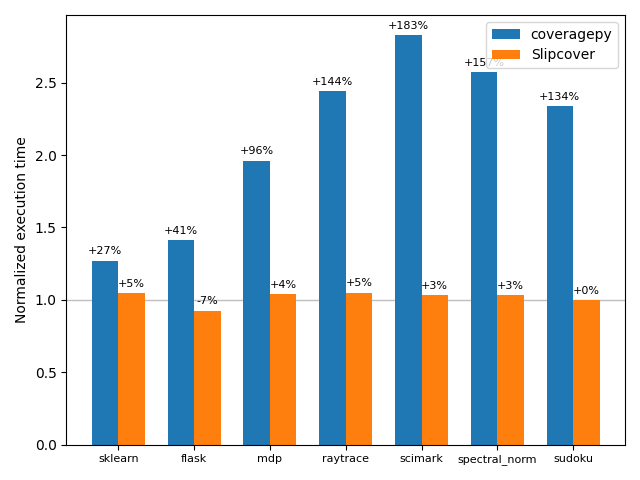
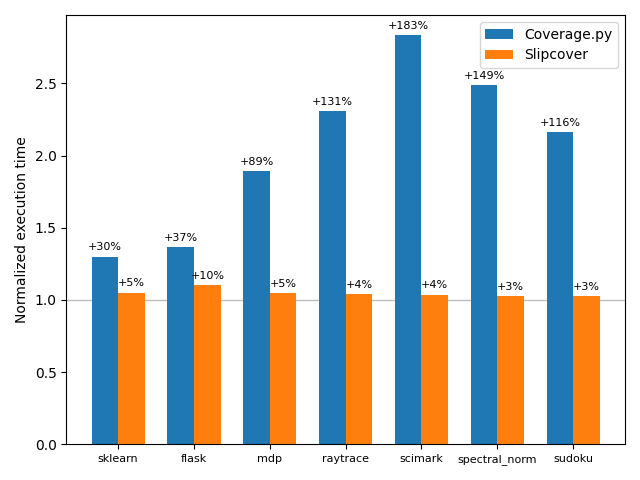
- updated benchmarks;
- started integrating astropy benchmarks, but left disabled as it
  disabled as it needs to be verified;

diff --git a/benchmarks/run_benchmarks.py b/benchmarks/run_benchmarks.py
@@ -13,6 +13,7 @@ PYTHON = 'python3'
 # someplace with scikit-learn 1.0.2 sources, built and ready to test
 SCIKIT_LEARN = Path.home() / "tmp" / "scikit-learn"
 FLASK = Path.home() / "tmp" / "flask"
+ASTROPY = Path.home() / "tmp" / "astropy"
 
 git_head = subprocess.run("git rev-parse --short HEAD", shell=True, check=True,
                           capture_output=True, text=True).stdout.strip()
@@ -110,6 +111,16 @@ if FLASK.exists():
                     'slipcover_opts': '--source=src,*/site-packages'
                   },
                   cwd=FLASK
+        )
+    )
+
+if False and ASTROPY.exists():
+    benchmarks.append(
+        Benchmark('astropy', "-m pytest", {
+                    # coveragepy options from setup.cfg
+                    'slipcover_opts': '--omit=astropy/__init__*,astropy/conftest.py,astropy/*setup*,astropy/*/tests/*,astropy/tests/test_*,astropy/extern/*,astropy/utils/compat/*,astropy/version*,astropy/wcs/docstrings*,astropy/_erfa/*,*/astropy/__init__*,*/astropy/conftest.py,*/astropy/*setup*,*/astropy/*/tests/*,*/astropy/tests/test_*,*/astropy/extern/*,*/astropy/utils/compat/*,*/astropy/version*,*/astropy/wcs/docstrings*,*/astropy/_erfa/*'
+                  },
+                  cwd=ASTROPY
         )
     )
 

diff --git a/README.md b/README.md
@@ -47,7 +47,7 @@ More "Python-intensive" programs such as sudoku and those from the benchmark
 suite (with a larger proportion of execution time spent in Python, rather than in native code)
 generate more tracing events, causing more overhead in Coverage.py.
 While each program's structure can affect Slipcover's ability to de-instrument,
-its running time stays relatively close to the original, at 5% or less overhead.
+its running time stays relatively close to the original, mostly at 5% or less overhead.
 
 ### Accuracy
 We verified Slipcover's accuracy against [Coverage.py](https://github.com/nedbat/coveragepy)
